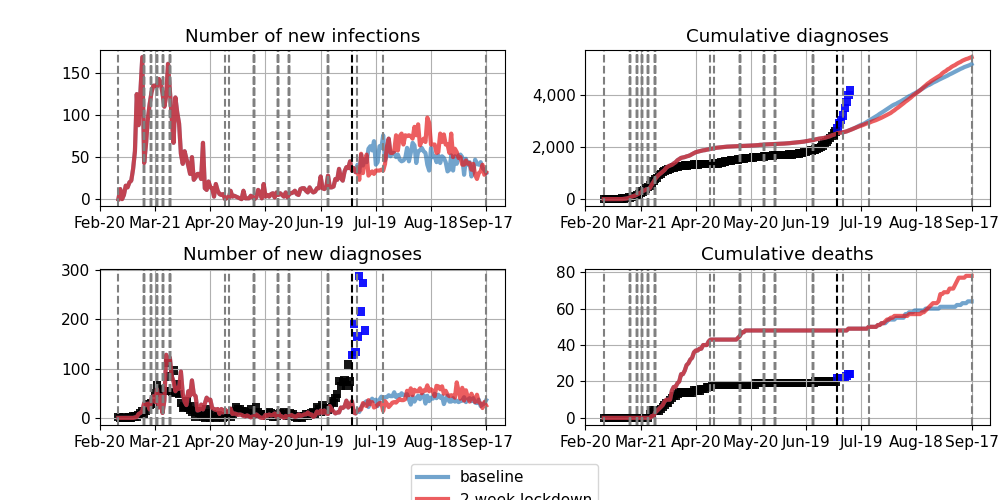
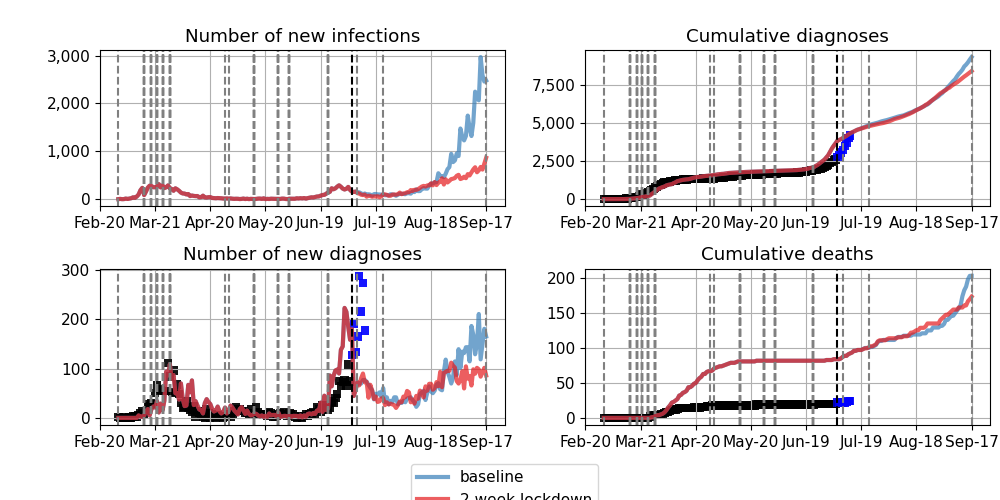
contact updates

diff --git a/applications/Australia/run_vic_base.py b/applications/Australia/run_vic_base.py
@@ -39,8 +39,8 @@ if __name__ == "__main__":
                                            'tracing_policies': {'tracing_app': {'coverage': [0, 0.1], 'days': [0, 60]},
                                                                 'id_checks': {'coverage': [0, 0.8], 'days': [0, 93]}},
                                            'policies': {'lockdown_relax': {'beta': 0.8},
-                                                        'pub_bar_4sqm': {'beta': 1, 'pub_bar': 0.99},
-                                                        'cafe_restaurant_4sqm': {'beta': 1, 'cafe_restaurant': 0.99}}
+                                                        'pub_bar_4sqm': {'beta': 1, 'pub_bar': 0.7},
+                                                        'cafe_restaurant_4sqm': {'beta': 1, 'cafe_restaurant': 0.7}}
                                                         },
                                  '2 week lockdown': {'replace': (['lockdown', 'pub_bar0','cafe_restaurant0','outdoor2','church0'],
                                                            [['lockdown_relax', 'lockdown_2', 'lockdown_2_exit'],

diff --git a/contacts.py b/contacts.py
@@ -91,12 +91,13 @@ def random_long_tail_contacts(include, mean_contacts_per_person, array_output: b
     include_inds = np.nonzero(include)[0].astype(cvd.default_int) # These are the indexes (person IDs) of people in the layer
     n_people = len(include_inds)
 
-    # estimate number of contacts for each person. REPLACE WITH NEG BINOM DIST?
-    c = np.round(np.random.normal(mean_contacts_per_person, 2, n_people))
+    # estimate number of contacts for each person.
+    variance = 1.1
+    c = np.round(np.random.negative_binomial(mean_contacts_per_person *mean_contacts_per_person / (variance - mean_contacts_per_person),
+        (variance - mean_contacts_per_person)/variance, n_people))
     c[c < 0] = 0
     c = c.astype(np.int)
     source = np.empty((0))
-    target = np.empty((0))
     for i in range(n_people):
         source = np.append(source, include_inds[i]*c[i]) # where edges start from (each person include_inds[i], has c[i] edges)
     target = np.random.shuffle(source) # the edges all go to another person, but the number of edges for each person must be the same
